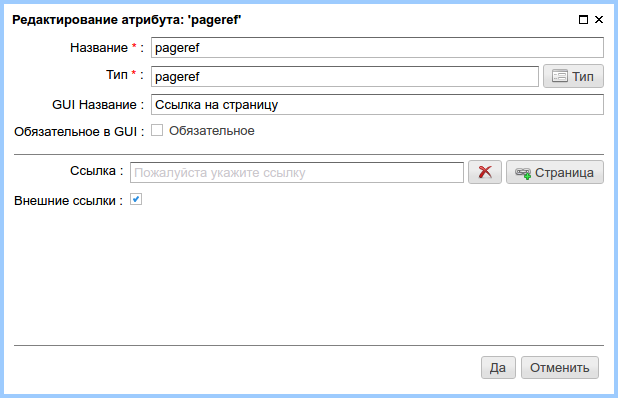
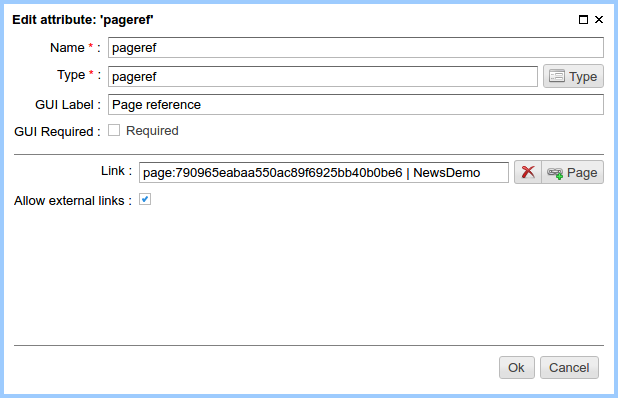
- en-docs

diff --git a/ncms-docs/ncms-docs-en/doc/ui/am/wiki/wiki.rst b/ncms-docs/ncms-docs-en/doc/ui/am/wiki/wiki.rst
@@ -313,7 +313,7 @@ It is converted to HTML with a hierarchical structure based on lists ( `<ul>`, `
 .. note::
 
     For proper display of the tree on website pages, a site designer
-    should define `.tree` css class for suchlike `<ul class = 'tree'>` elements
+    should define `.tree` css class for suchlike `<ul class='tree'>` elements
 
 
 .. figure:: img/wiki_img23.png
@@ -373,7 +373,7 @@ As a result, in the context of the page we get youtube video:
 .. image:: img/wiki_img28.png
     :align: left
 
-**Insert the map of Google Maps**
+**Insert the Google Map**
 
 
 .. figure:: img/wiki_img29.png

diff --git a/ncms-docs/ncms-docs-en/doc/ui/am/webref/webref.rst b/ncms-docs/ncms-docs-en/doc/ui/am/webref/webref.rst
@@ -30,7 +30,7 @@ Edit mode
     Web resource URL on the :ref:`page management UI <pmgr>`
 
 In this example, a page address
-http://lib.ru/AKONANDOJL/doil1_5.txt was specified as a resource
+https://tools.ietf.org/rfc/rfc6901.txt was specified as a resource
 
 Using in the markup
 -------------------
@@ -41,7 +41,9 @@ Including a resource text to the html page::
 
     Webref:
 
-    $!{asm('webref')}
+    <pre>
+        $!{asm('webref')}
+    </pre>
 
 Using the mentioned address of a resource, as a result we get:
 

diff --git a/ncms-docs/ncms-docs-en/doc/ui/am/pageref/pageref.rst b/ncms-docs/ncms-docs-en/doc/ui/am/pageref/pageref.rst
@@ -34,11 +34,6 @@ edit link title or enter an external link.
 
     Link selection dialog
 
-.. figure:: img/pageref_img4.png
-
-    Attribute value
-
-
 Using in the markup
 -------------------
 
